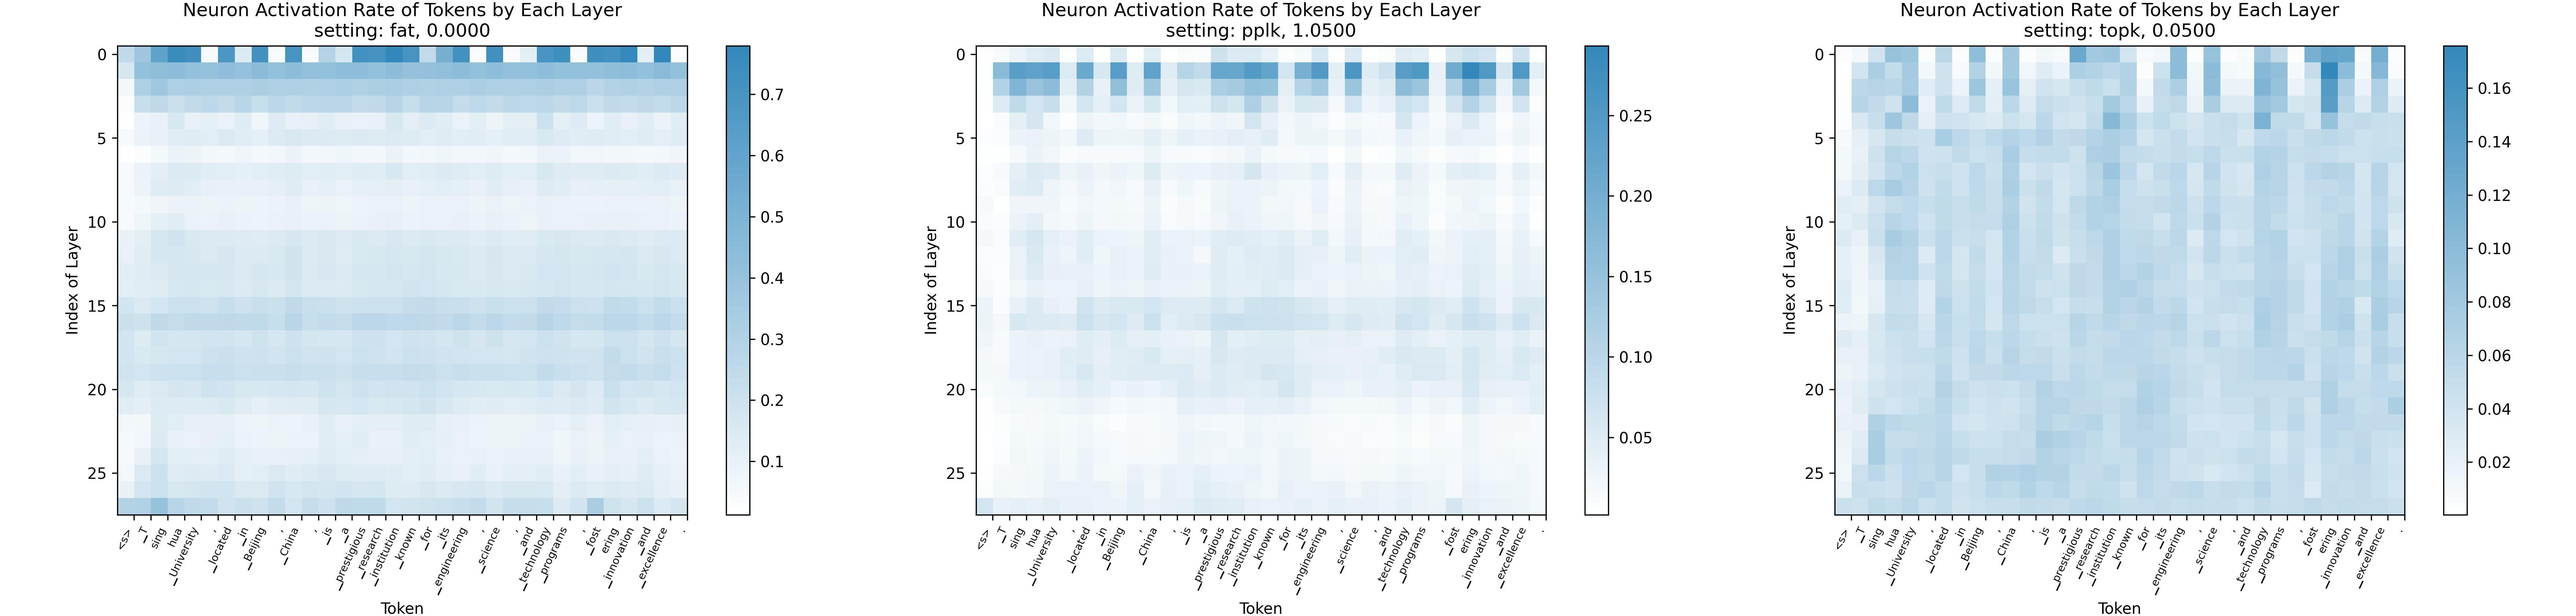
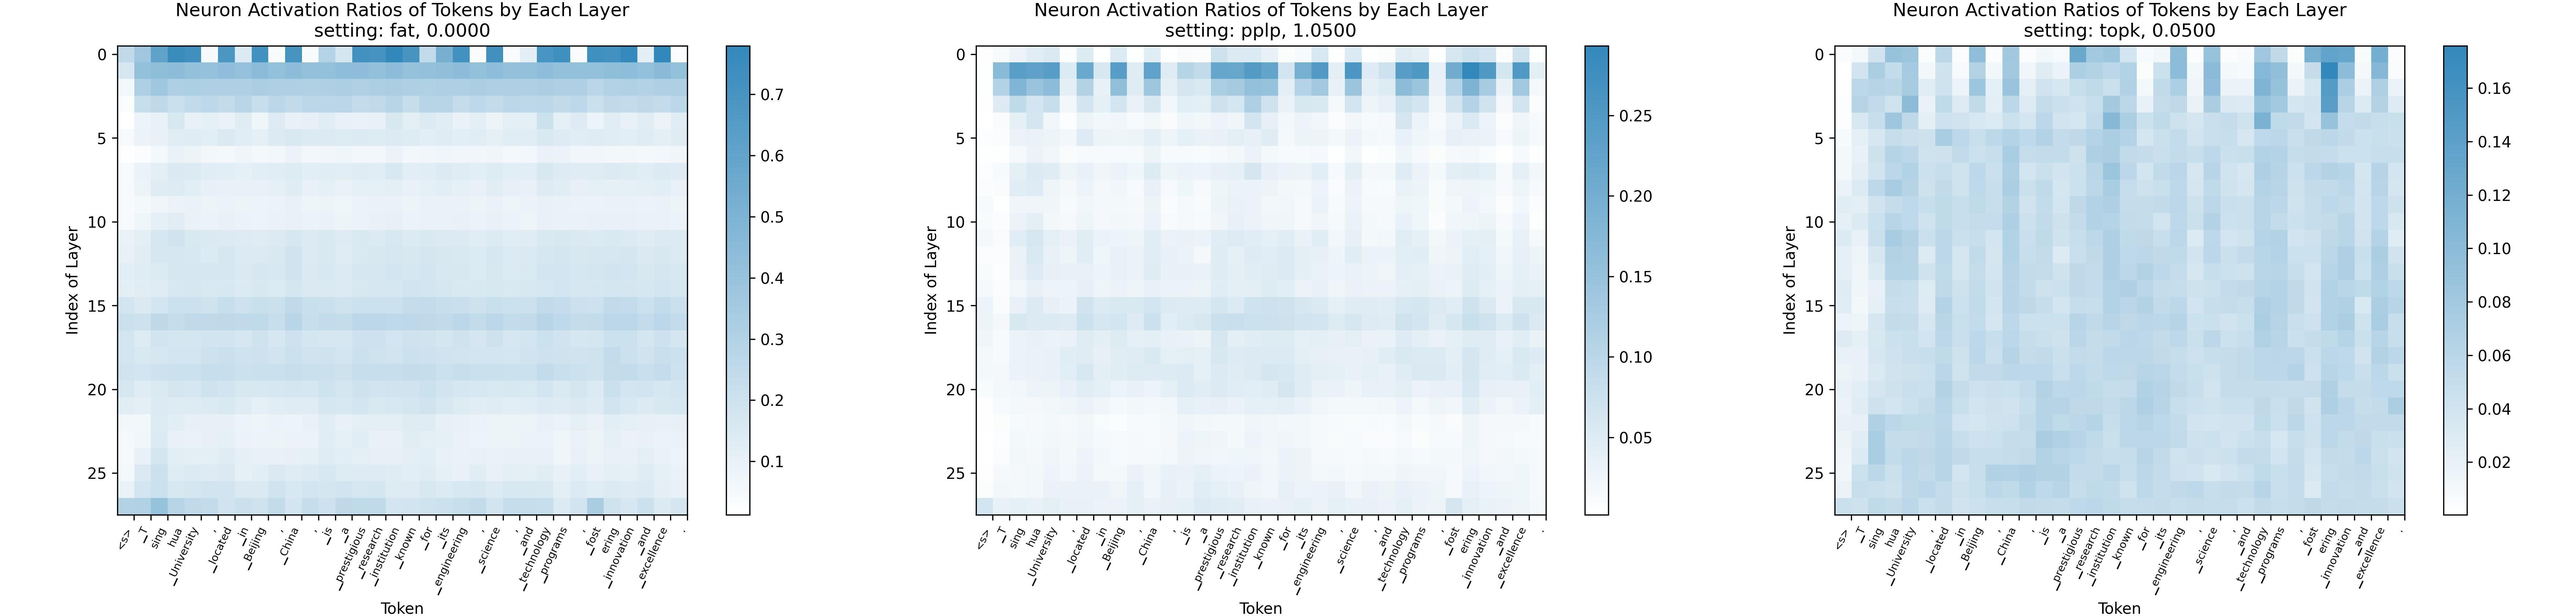
fix: figure

Changed region(s): [[0.4056, 0.0, 0.5927, 0.0619], [0.7175, 0.0, 0.9047, 0.031], [0.0624, 0.0, 0.2496, 0.031]]

diff --git a/src/calc_activation.py b/src/calc_activation.py
@@ -41,7 +41,7 @@ def inspect_model(
     print_thresholds_list: bool = True,
 ):
     """
-    Calculate the neuron activation rates for each token by layer and compute the increase in perplexity (PPL ratio)
+    Calculate the neuron activation ratios for each token by layer and compute the increase in perplexity (PPL ratio)
     for the provided input data. The analysis is conducted based on the model's pruning strategy 
     (`model.prune_strategy`) and pruning parameter (`model.prune_arg`).
 
@@ -53,7 +53,7 @@ def inspect_model(
     - 1 + p% for PPL-p% sparsity (e.g. prune_arg=1.01 for PPL-1% sparsity).
 
     Returns:
-        - A Tensor of size (num_layers, batch_size, seq_len) represents the neuron activation rates,
+        - A Tensor of size (num_layers, batch_size, seq_len) represents the neuron activation ratios,
         - A float value represents the PPL ratio.
     """
     if model.prune_strategy == 'pplp':
@@ -109,7 +109,7 @@ def draw(act_data: Tensor, tokens: List[str], setting: str):
     ax.set_xticks(np.arange(len(tokens)) + 0.5)
     ax.set_xticklabels(tokens, rotation=65, fontsize=7, ha='right')
 
-    ax.set_title(f'Neuron Activation Rate of Tokens by Each Layer\nsetting: {setting}')
+    ax.set_title(f'Neuron Activation Ratios of Tokens by Each Layer\nsetting: {setting}')
     ax.set_xlabel('Token')
     ax.set_ylabel('Index of Layer')
 

diff --git a/README.md b/README.md
@@ -83,7 +83,7 @@ bash calc_activation.sh
 
 ### Sample
 
-The resulting activation rates within our 0.8B ReLU-activated model, using three different sparsity metrics on the sample text, are shown in the figure below.
+The resulting activation ratios within our 0.8B ReLU-activated model, using three different sparsity metrics on the sample text, are shown in the figure below.
 
 ![](figs/sample.jpg)
 
